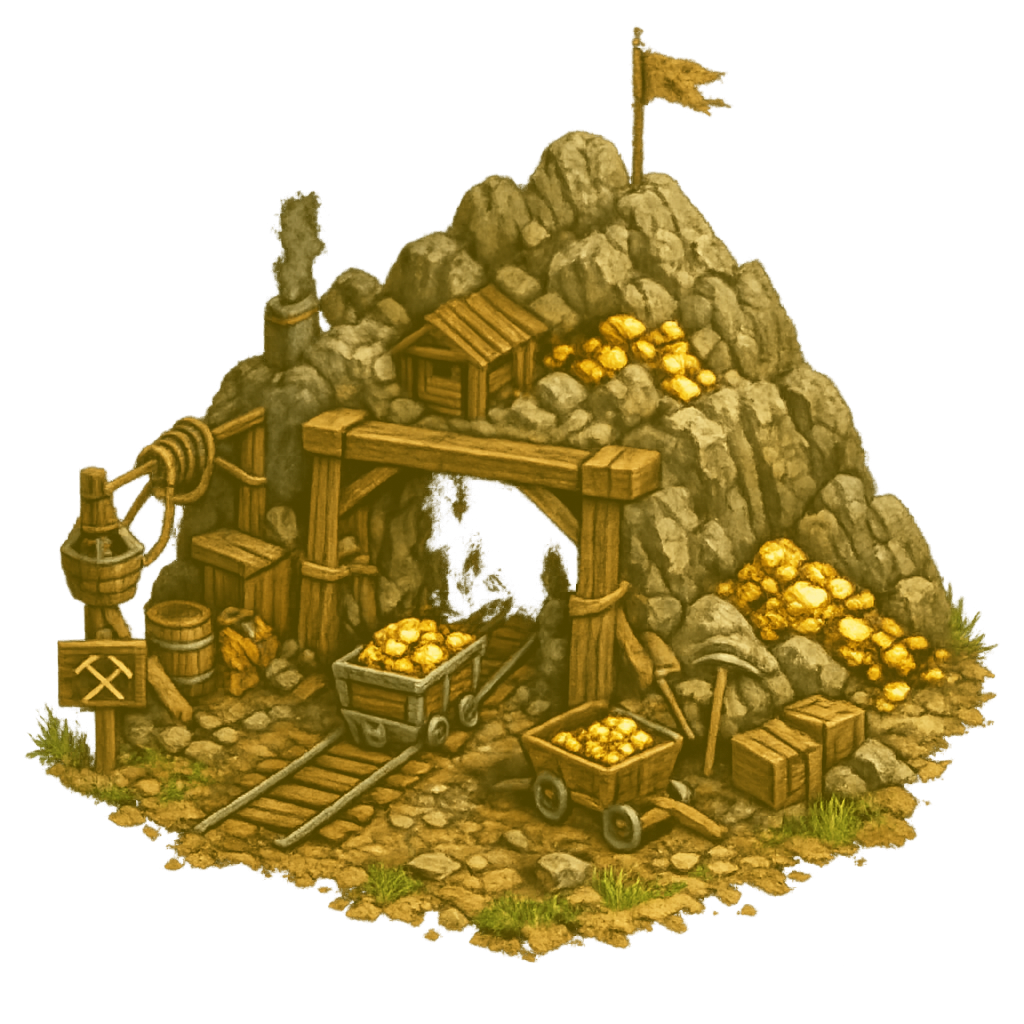
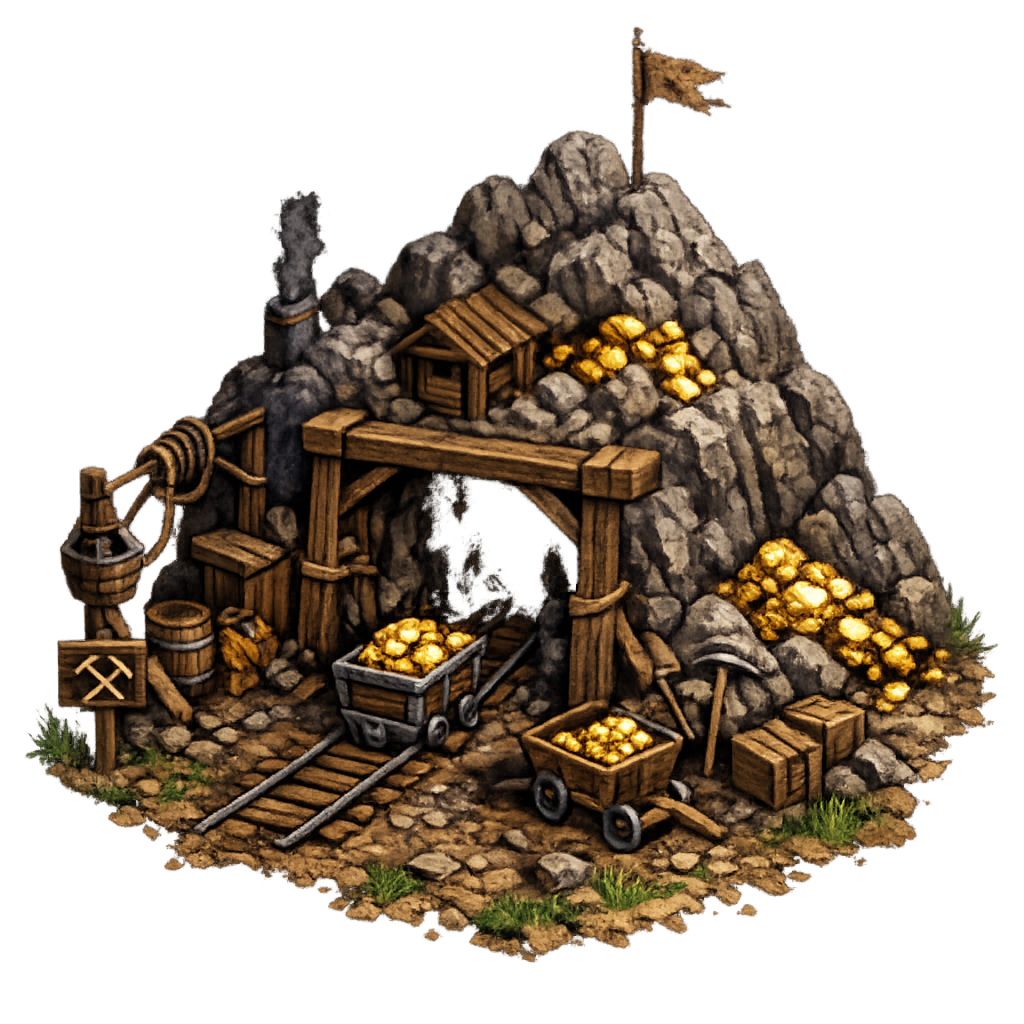
Refactor to use object-based ownership and PlayerService, update mine sprites

diff --git a/src/app/features/adventure-map/adventure-map.component.ts b/src/app/features/adventure-map/adventure-map.component.ts
@@ -20,7 +20,7 @@ import { PlayerColor } from "../../core/models/player/player-color.enum";
 import { ViewportService } from "../../core/services/viewport/viewport.service";
 import { EdgeScrollController } from "../../core/services/viewport/edge-scroll-controller.service";
 import { CursorManagerService } from "../../core/services/viewport/cursor-manager.service";
-import { ActivePlayerService } from "../../core/services/active-player.service";
+import { PlayerService } from "../../core/services/player.service";
 
 @Component({
   selector: 'app-adventure-map',
@@ -69,7 +69,7 @@ export class AdventureMapComponent implements AfterViewInit, OnDestroy {
       private viewport: ViewportService,
       private edgeScroll: EdgeScrollController,
       private cursorManager: CursorManagerService,
-      private activePlayerService: ActivePlayerService,
+      private playerService: PlayerService,
       private cdr: ChangeDetectorRef
     ) 
     
@@ -83,7 +83,6 @@ export class AdventureMapComponent implements AfterViewInit, OnDestroy {
     const firstHero: Hero = {tile: this.map[5][5], name: 'First Hero', level: 1, movementPoints: 10, maxMovementPoints: 10, path: [], facing:HeroOrientation.West};
     
     this.player = {
-      id: 'player1',
       color: PlayerColor.Red,
       heroes: [firstHero],
       selectedHero: firstHero,
@@ -96,7 +95,8 @@ export class AdventureMapComponent implements AfterViewInit, OnDestroy {
     };
 
     // Set this player as the active player for the turn-based game
-    this.activePlayerService.setActivePlayer(this.player);
+    this.playerService.setActivePlayer(this.player);
+    this.playerService.setPlayers([this.player]);
 
     this.turn$ = this.turnEngine.turnState$.pipe(
         map(state => state.currentTurn)
@@ -114,9 +114,6 @@ export class AdventureMapComponent implements AfterViewInit, OnDestroy {
   ngAfterViewInit(): void {
     const ctx = this.canvas.nativeElement.getContext('2d')!;
     this.renderer.initialize(ctx);
-    
-    // Set players for the renderer (for mine color rendering)
-    this.renderer.setPlayers([this.player]);
     
     const canvasWidth = this.canvas.nativeElement.width;
     const canvasHeight = this.canvas.nativeElement.height;

diff --git a/src/app/core/services/rendering/canvas-renderer.service.ts b/src/app/core/services/rendering/canvas-renderer.service.ts
@@ -13,7 +13,7 @@ import { ObjectsSpriteService } from './objects-sprite.service';
 import { MAP_OBJECT_DEFINITIONS } from '../../models/map-objects/map-object-config';
 import { getFootprintSize } from './map-object.utils';
 import { ViewportService } from '../viewport/viewport.service';
-import { Player } from '../../models/player/player.model';
+import { PlayerService } from '../player.service';
 
 @Injectable({ providedIn: 'root' })
 export class CanvasRendererService {
@@ -22,23 +22,19 @@ export class CanvasRendererService {
   private tileSize = 48;
   private canvasWidth = 960;
   private canvasHeight = 720;
-  private players: Player[] = [];
 
   constructor(
     private heroSprite: HeroSpriteService, 
     private terrainSprite: TerrainSpriteService, 
     private objectsSprite: ObjectsSpriteService,
-    private viewport: ViewportService
+    private viewport: ViewportService,
+    private playerService: PlayerService
   ) {}
 
   initialize(ctx: CanvasRenderingContext2D): void {
     this.ctx = ctx;
     this.canvasWidth = ctx.canvas.width;
     this.canvasHeight = ctx.canvas.height;
-  }
-
-  setPlayers(players: Player[]): void {
-    this.players = players;
   }
 
   draw(map: Tile[][], objects: MapObject[], hero: Hero): void {
@@ -179,11 +175,11 @@ export class CanvasRendererService {
           drawHeight
         );
         
-        // If mine is owned, draw flag overlay
-        if (mine.ownerId) {
-          const owner = this.players.find(p => p.id === mine.ownerId);
-          if (owner) {
-            const flagSprite = this.objectsSprite.getFlagSprite(owner.color);
+        // Check if mine is owned by any player and draw flag overlay
+        const allPlayers = this.playerService.getAllPlayers();
+        for (const player of allPlayers) {
+          if (player.ownedMines.some(m => m === mine)) {
+            const flagSprite = this.objectsSprite.getFlagSprite(player.color);
             this.ctx.drawImage(
               flagSprite,
               drawX,
@@ -191,6 +187,7 @@ export class CanvasRendererService {
               drawWidth,
               drawHeight
             );
+            break; // Mine can only be owned by one player
           }
         }
       } else {

diff --git a/src/app/core/services/action-handlers/mine-action-handler.service.ts b/src/app/core/services/action-handlers/mine-action-handler.service.ts
@@ -3,7 +3,7 @@ import { ActionHandler } from '../../models/actions/action-handler.interface';
 import { MapObject } from '../../models/map-objects/map-object.model';
 import { MapObjectMine } from '../../models/map-objects/map-object-mine.model';
 import { MapObjectType } from '../../models/map-objects/map-object-type.enum';
-import { ActivePlayerService } from '../active-player.service';
+import { PlayerService } from '../player.service';
 
 /**
  * Handler for mine capture interactions.
@@ -12,7 +12,7 @@ import { ActivePlayerService } from '../active-player.service';
 @Injectable({ providedIn: 'root' })
 export class MineActionHandler implements ActionHandler {
 
-  constructor(private activePlayerService: ActivePlayerService) {}
+  constructor(private playerService: PlayerService) {}
 
   canHandle(interactionObject: MapObject): boolean {
     return interactionObject.type === MapObjectType.MINE;
@@ -20,17 +20,11 @@ export class MineActionHandler implements ActionHandler {
 
   handle(interactionObject: MapObject): void {
     const mine = interactionObject as MapObjectMine;
-    const player = this.activePlayerService.getActivePlayer();
+    const player = this.playerService.getActivePlayer();
     
     if (!player) return;
     
-    // Check if mine is already owned by this player
-    if (mine.ownerId === player.id) return;
-    
-    // Set the mine owner
-    mine.ownerId = player.id;
-    
-    // Add to player's owned mines if not already there
+    // Check if mine is already owned by comparing object references
     if (!player.ownedMines.some(m => m === mine)) {
       player.ownedMines.push(mine);
     }

diff --git a/src/app/core/services/player.service.ts b/src/app/core/services/player.service.ts
@@ -1,0 +1,33 @@
+import { Injectable } from '@angular/core';
+import { Player } from '../models/player/player.model';
+
+/**
+ * Service to manage players in the turn-based game.
+ * Tracks the active player and provides access to all players.
+ */
+@Injectable({ providedIn: 'root' })
+export class PlayerService {
+  private currentPlayer?: Player;
+  private allPlayers: Player[] = [];
+
+  setActivePlayer(player: Player): void {
+    this.currentPlayer = player;
+  }
+
+  getActivePlayer(): Player | undefined {
+    if (!this.currentPlayer) {
+      console.warn(
+        'PlayerService: getActivePlayer called but no active player is currently set.'
+      );
+    }
+    return this.currentPlayer;
+  }
+
+  setPlayers(players: Player[]): void {
+    this.allPlayers = players;
+  }
+
+  getAllPlayers(): Player[] {
+    return this.allPlayers;
+  }
+}

diff --git a/src/app/core/services/action-handlers/action-handler-registry.service.ts b/src/app/core/services/action-handlers/action-handler-registry.service.ts
@@ -1,7 +1,7 @@
 import { Injectable } from '@angular/core';
 import { ActionHandler } from '../../models/actions/action-handler.interface';
 import { MapObject } from '../../models/map-objects/map-object.model';
-import { ActivePlayerService } from '../active-player.service';
+import { PlayerService } from '../player.service';
 import { MineActionHandler } from './mine-action-handler.service';
 
 /**
@@ -13,7 +13,7 @@ export class ActionHandlerRegistry {
   private handlers: ActionHandler[] = [];
 
   constructor(
-    private activePlayerService: ActivePlayerService,
+    private playerService: PlayerService,
     private mineActionHandler: MineActionHandler
     // Add more handlers here as needed
   ) {

diff --git a/src/app/core/models/map-objects/map-object-mine.model.ts b/src/app/core/models/map-objects/map-object-mine.model.ts
@@ -17,5 +17,4 @@ export const MINE_PRODUCTION_CONFIG: Record<ResourceType, number> = {
 export interface MapObjectMine extends MapObject {
   readonly resourceType: ResourceType;
   readonly productionAmount: number;
-  ownerId?: string; // ID of the player who owns this mine, undefined if not captured
 }

diff --git a/src/app/core/models/player/player.model.ts b/src/app/core/models/player/player.model.ts
@@ -5,7 +5,6 @@ import { MapObjectMine } from '../map-objects/map-object-mine.model';
 import { PlayerColor } from './player-color.enum';
 
 export interface Player {
-  id: string;
   color: PlayerColor;
   heroes: Hero[];
   selectedHero: Hero;
